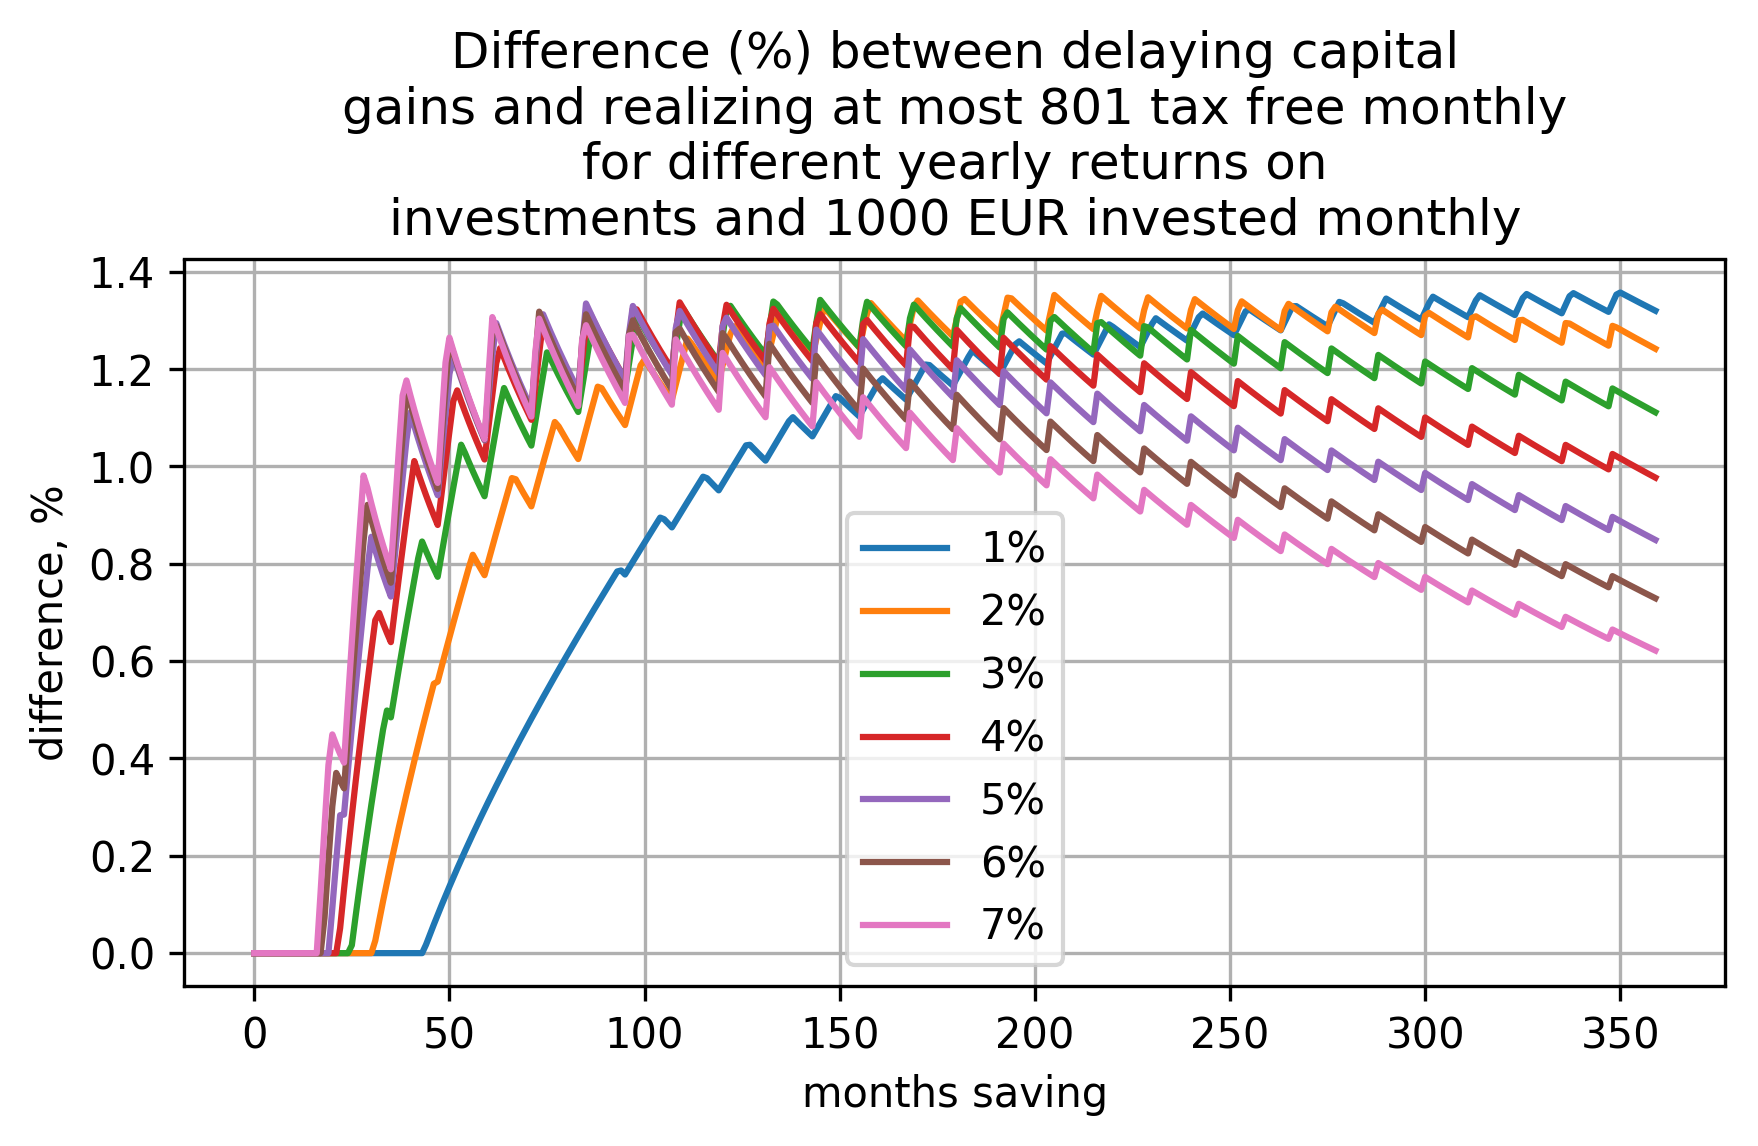
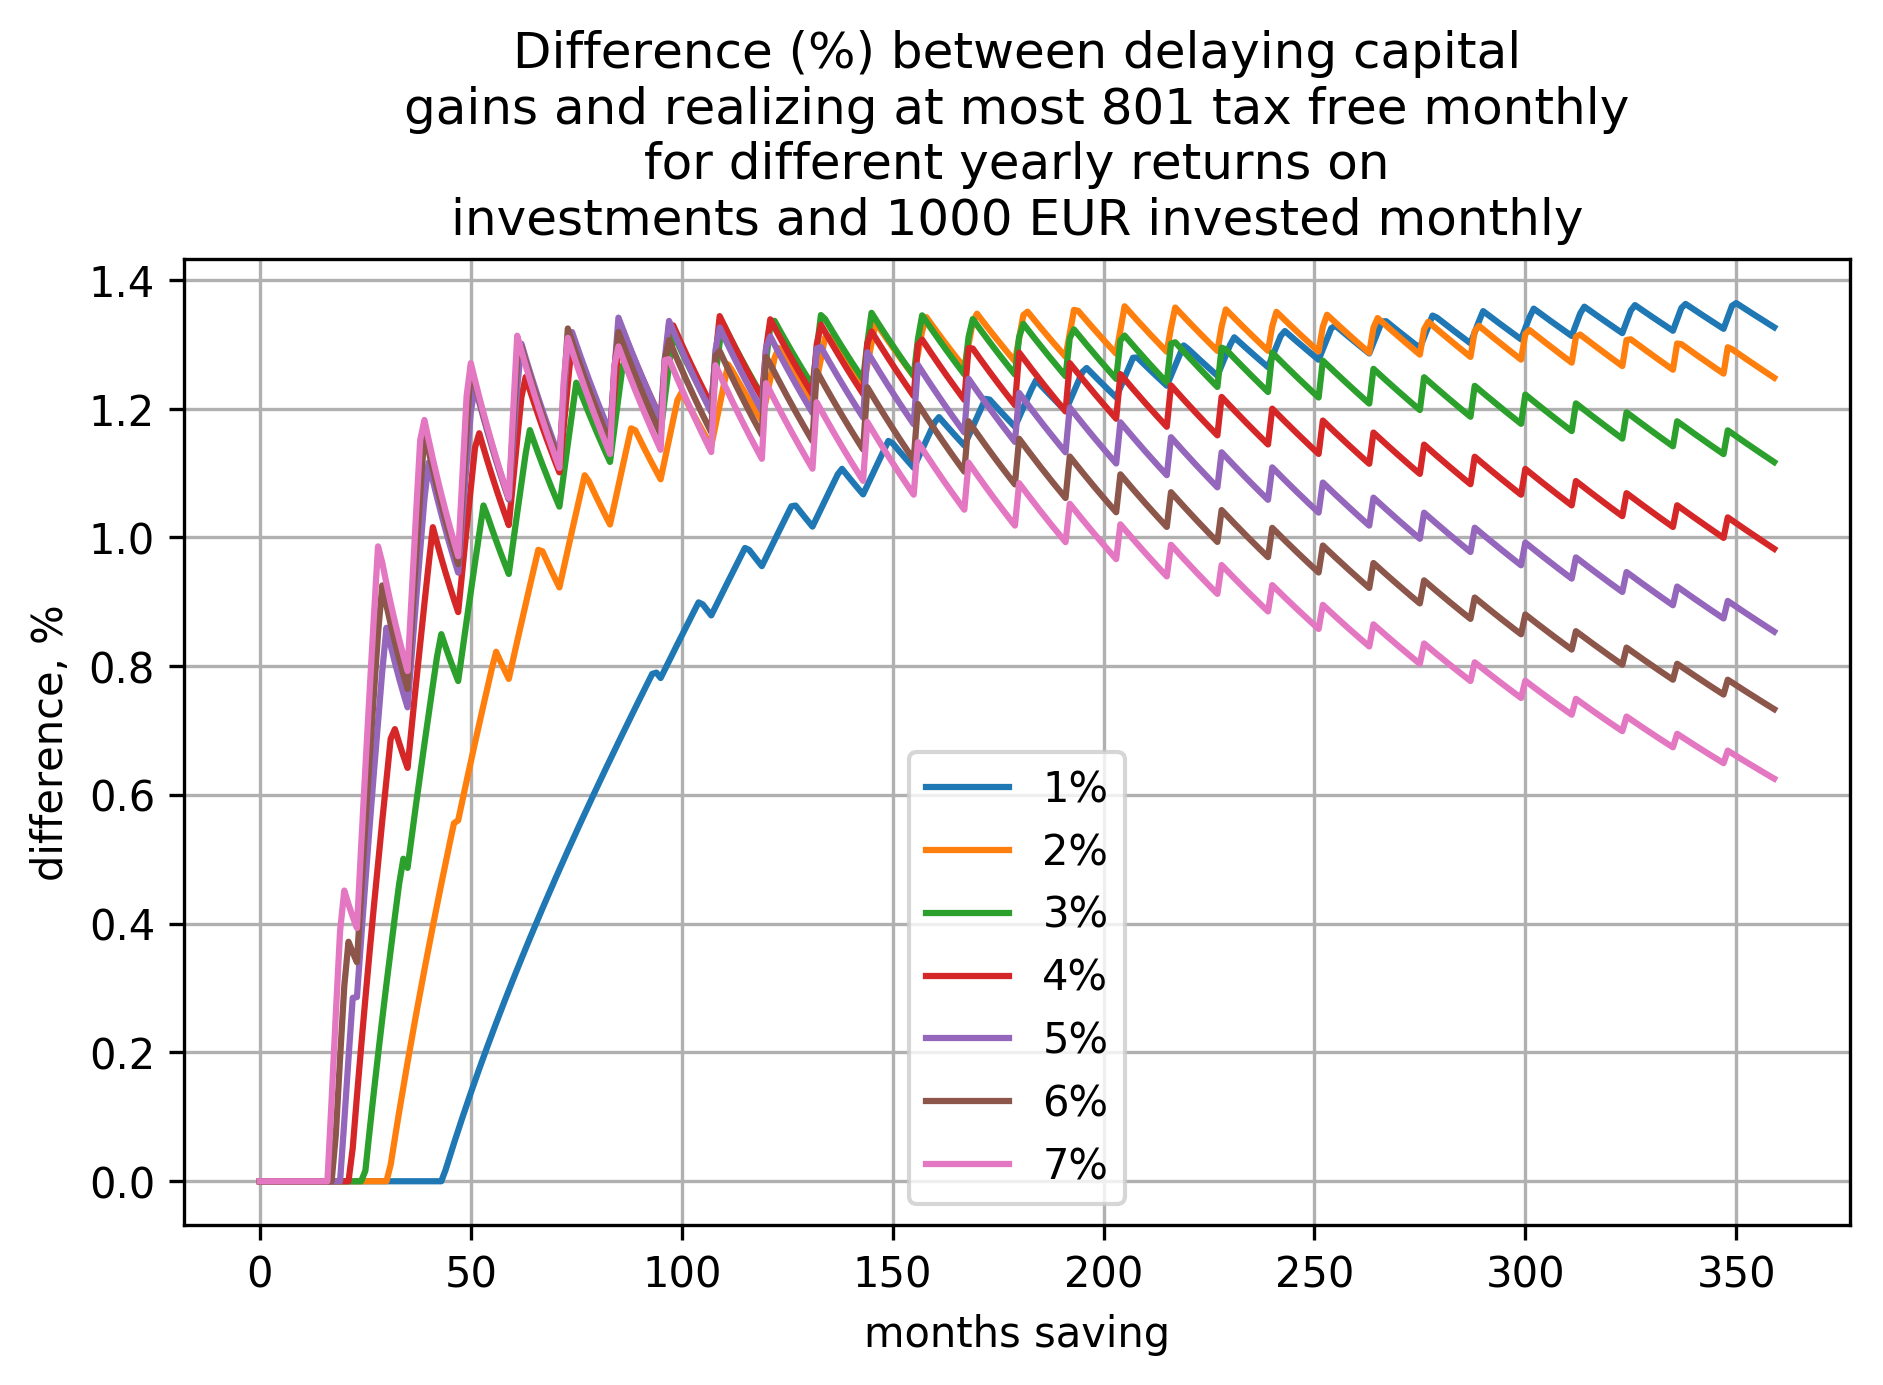
correction.

Changed region(s): [[0.0, 0.0, 0.9829, 0.9773], [0.0, 0.4276, 0.0307, 0.4581]]

diff --git a/post/801-tax-free-capital-gains.html b/post/801-tax-free-capital-gains.html
@@ -73,8 +73,10 @@ to your situation.</p>
 
 <p>I met some people who did not bother with these 801€ per year at all. However, I do try to use them.
 Basically, when realizing 801€ of capital gains, one pays no taxes in Germany.
-Normally one would pay 26.25% tax (25% capital gain tax and 5% of that is solidarity tax).
-Thus, one can get free 801 * 26.25% = 210.26€ each year by doing this. This is definitely
+Please note that this does not mean that one gets 801€ for free. Nope.
+Normally one would pay 26.375% tax (25% capital gain tax and 5.5% of that is solidarity tax).
+With this benefit one does not pay this tax for 801€.
+Thus, one can get free 801 * 26.375% = 211.26€ each year by doing this. This is definitely
 not a life changing sum, but I am curious what the impact is when saving e.g. for FIRE.</p>
 
 <p>Dividends do count against this sum as well. Moreover not realized capital gains now have to be partially
@@ -90,7 +92,7 @@ We will use the following assumptions about Jannet and her life:</p>
 <ul>
   <li>lives in Germany</li>
   <li>does not have any other capital gains except from her stock portfolio</li>
-  <li>has other income, i.e. the capital gain tax is always 26.25% and never gets replaced
+  <li>has other income, i.e. the capital gain tax is always 26.375% and never gets replaced
 with the progressive income tax (in a future post I will look more into how this works).
 This is very realistic for the collection phase</li>
   <li>starts from 0€ in January 2019</li>
@@ -136,9 +138,9 @@ to the diff column).</p>
 In the first case, she reaches 300k€ after tax in 222 months (July 2037) and pre-tax she had
 327k. In the second case she reaches 300k€ after tax 2 months earlier (May 2037).
 By this time she had realized 14542€ of capital gains tax free by using this 801€ benefit.
-I.e. she has got 14542€ * 26.25% = 3817.27€ for free.</p>
+I.e. she has got 14542€ * 26.375% = 3835.45€ for free.</p>
 
-<p>The difference between the two approaches (in percents) jumps to 1.37% and then slowly falls down to ~1.2%.</p>
+<p>The difference between the two approaches (in percents) jumps to 1.34% and then slowly falls down to ~1.2%.</p>
 
 <p>Let’s plot the difference for each month:</p>
 
@@ -221,7 +223,35 @@ And if you invest something like 5k€ per month, the difference reaches 0.3%.</
 
 <p>Overall, these are free money, which are very easy to get. Thus, I advise you to use this opportunity!</p>
 
+<p>Please note that there are multiple ways to use it. In the end, you just need to realize capital gains and I am aware
+of the following ways to do so:</p>
+<ol>
+  <li>Receive dividends.
+If we assume 1-2% of dividends per year, you will use these tax-free 801€ by having 40k-80k€ invested.</li>
+  <li>Yearly tax prepayment (Vorabpauschale).<br />
+If we take 0.87% Basiszinses for 2018 and assume 4% yearly growth,
+having 801€ / (0.87% * 70%) = ~130k€ already exhausts these 801€.</li>
+  <li>Selling something with a win.</li>
+</ol>
+
+<p>Thus, if you have 130k and the year is positive (i.e there was at least Basiszinses * 0.7% growth),
+you don’t have to do anything to realize these 801€. If you have only distributing assets, having 40-80k€
+is already enough. Otherwise, you can sell something with a win.</p>
+
 <p>Happy realizing 801€ of capital gains each year!</p>
+
+<h2 id="corrections">Corrections</h2>
+
+<p>2019/07/22:</p>
+
+<ol>
+  <li>Previously it was assumed that solidarity tax was 5%. It is actually 5.5%.
+I.e. one pays 25% * 1.055 = 26.375% capital gain tax. All values and graph have been updates. Thanks to 
+<a href="https://www.reddit.com/user/hn_ns/">u/hn_ns</a> on Reddit for this correction.</li>
+  <li>On <a href="https://www.reddit.com/r/EuropeFIRE/comments/cdebkc/germany_how_much_does_one_lose_by_not_realizing/">Reddit</a>
+it was pointed out that one can use these 801€ via dividends or Vorabpauschale. I updated the text to make 
+this explicit.</li>
+</ol>
 
 <h2 id="appendix">Appendix</h2>
 
